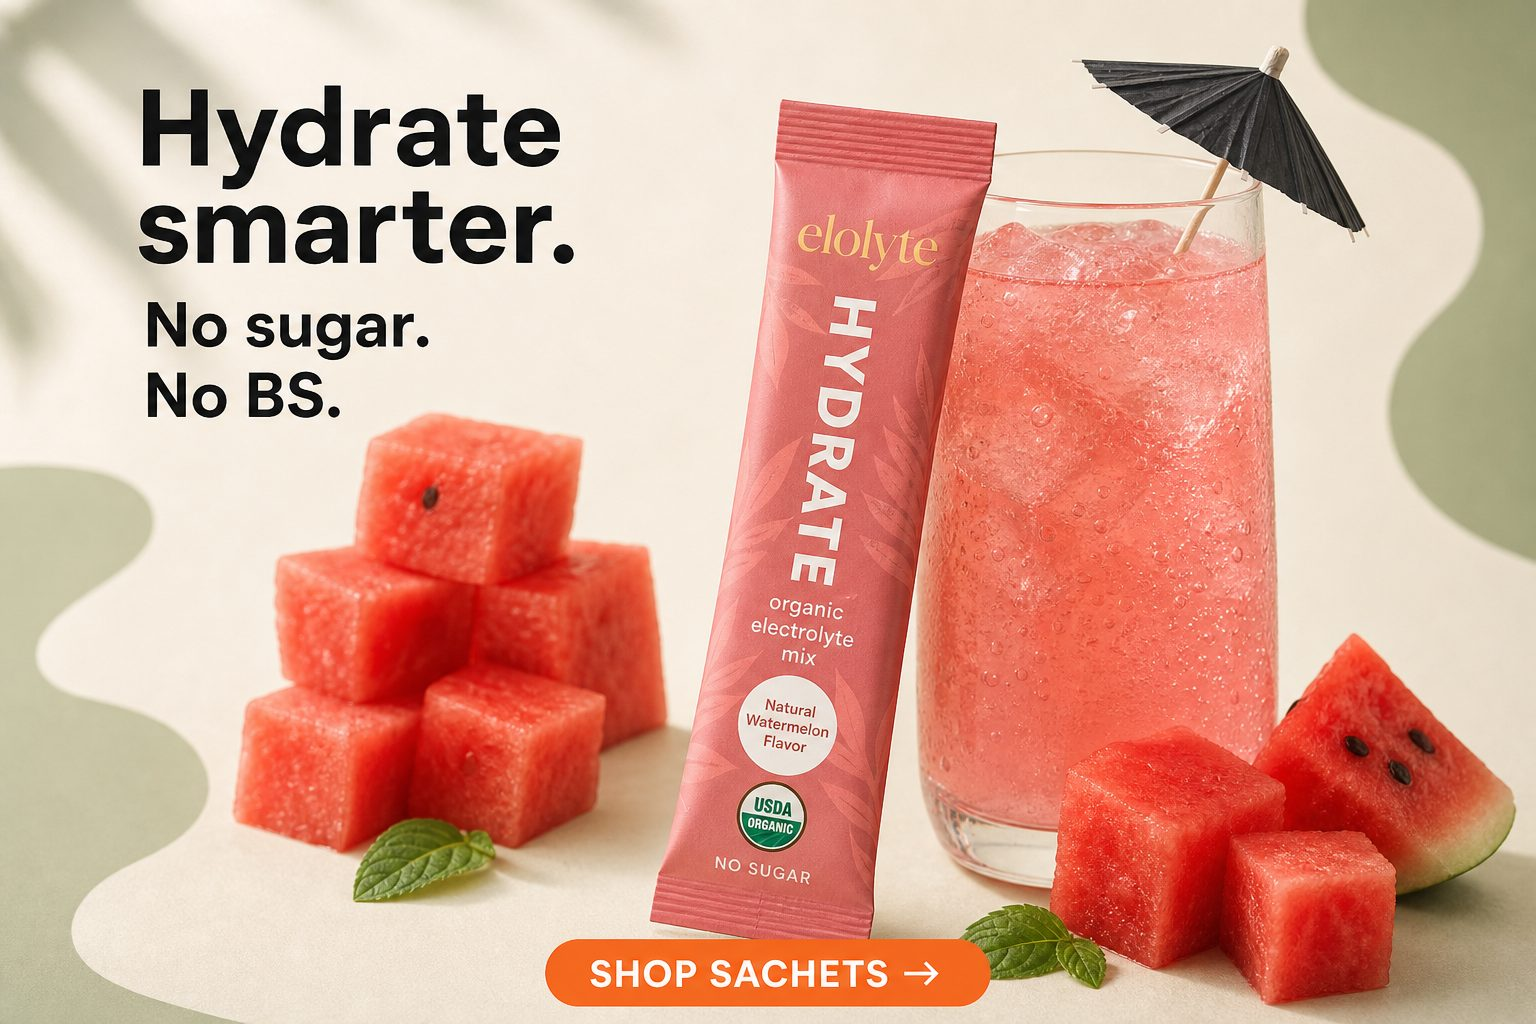
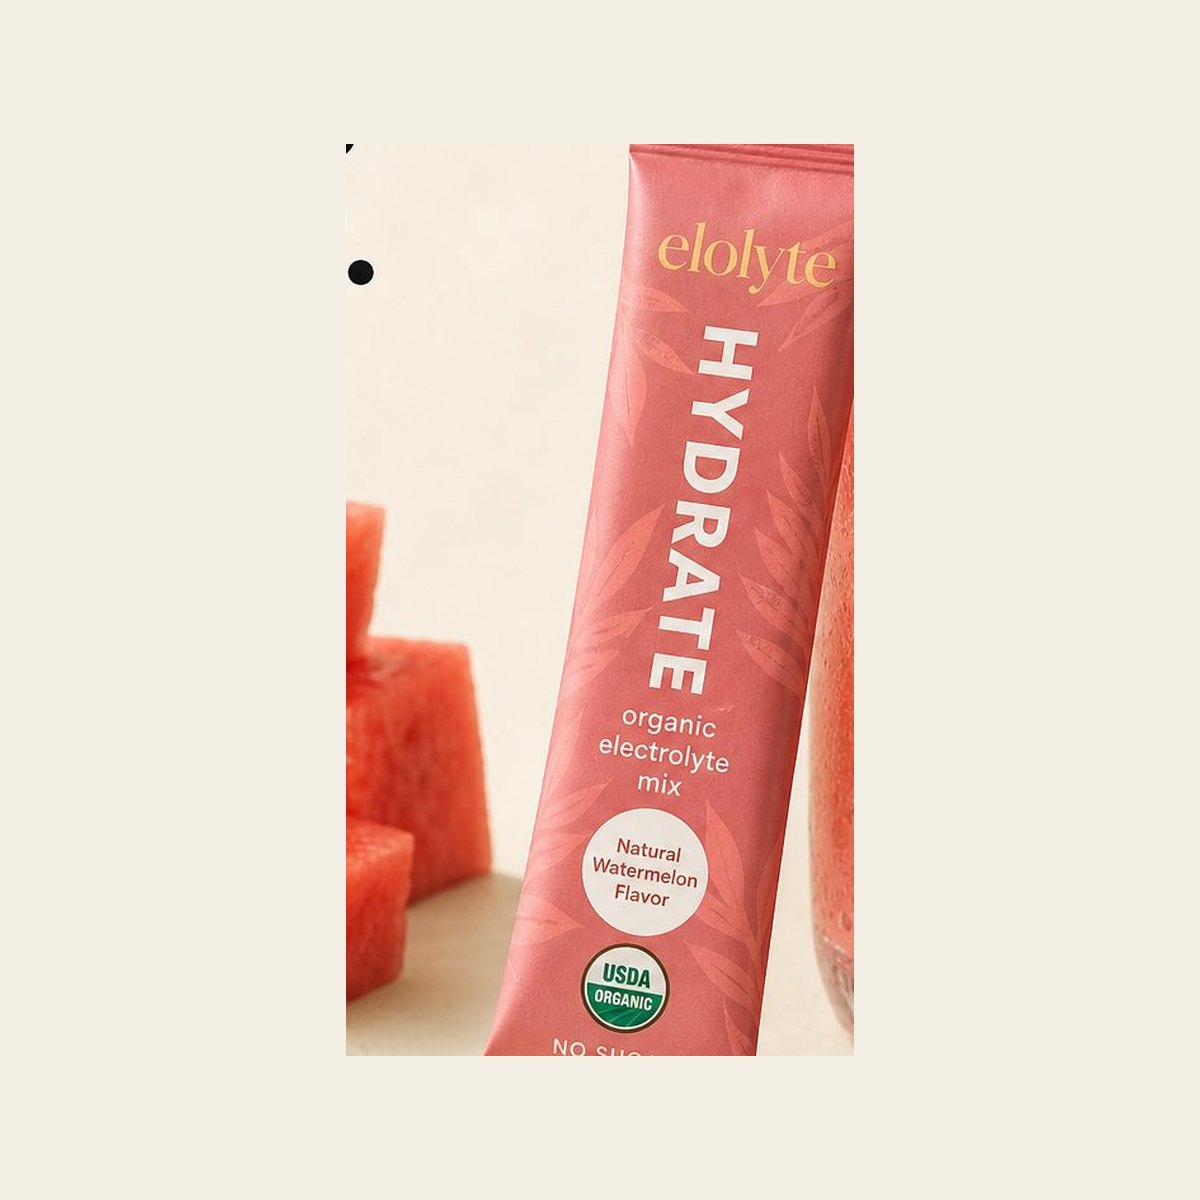
Restyle flavors as a square product grid, add @drink_elolyte.
Crop lifestyle tiles to the sachet, letterbox on cream, and use 1:1 contain frames so nothing stretches. Each card shows $39/mo · $45 with Subscribe and Try once. Footer now includes X and Instagram.

diff --git a/index.html b/index.html
@@ -99,68 +99,80 @@
       </div>
       <div class="flavor-grid">
         <article class="flavor-card" id="flavor-lemon">
-          <img class="flavor-photo" src="assets/flavors/lemon.jpg" width="1536" height="1024" alt="Natural Lemon Elolyte sachet beside a glass of iced lemon water">
+          <div class="flavor-media">
+            <img class="flavor-photo" src="assets/flavors/lemon.jpg" width="1200" height="1200" alt="Natural Lemon Elolyte sachet">
+          </div>
           <div class="flavor-body">
             <h3>Natural Lemon</h3>
-            <p>Bright citrus in cold water.</p>
+            <p class="flavor-price">$39/mo · $45</p>
             <div class="flavor-actions">
-              <a class="btn" data-buy="subscription" data-flavor="Natural Lemon" href="https://buy.stripe.com/00w9ATeHGcLve000Km6kg00">Subscribe Lemon — $39</a>
-              <a class="btn btn-ghost" data-buy="one-time" data-flavor="Natural Lemon" href="https://buy.stripe.com/00w5kD0QQ8vf5tu78K6kg01">Try Lemon — $45</a>
+              <a class="btn" data-buy="subscription" data-flavor="Natural Lemon" href="https://buy.stripe.com/00w9ATeHGcLve000Km6kg00">Subscribe — $39</a>
+              <a class="btn btn-ghost" data-buy="one-time" data-flavor="Natural Lemon" href="https://buy.stripe.com/00w5kD0QQ8vf5tu78K6kg01">Try once — $45</a>
             </div>
           </div>
         </article>
         <article class="flavor-card" id="flavor-original">
-          <img class="flavor-photo" src="assets/flavors/original.jpg" width="1536" height="1024" alt="Original Elolyte sachet with coconut and sea salt">
+          <div class="flavor-media">
+            <img class="flavor-photo" src="assets/flavors/original.jpg" width="1200" height="1200" alt="Original Elolyte sachet">
+          </div>
           <div class="flavor-body">
             <h3>Original</h3>
-            <p>Coconut water and sea salt.</p>
+            <p class="flavor-price">$39/mo · $45</p>
             <div class="flavor-actions">
-              <a class="btn" data-buy="subscription" data-flavor="Original" href="https://buy.stripe.com/00w9ATeHGcLve000Km6kg00">Subscribe Original — $39</a>
-              <a class="btn btn-ghost" data-buy="one-time" data-flavor="Original" href="https://buy.stripe.com/00w5kD0QQ8vf5tu78K6kg01">Try Original — $45</a>
+              <a class="btn" data-buy="subscription" data-flavor="Original" href="https://buy.stripe.com/00w9ATeHGcLve000Km6kg00">Subscribe — $39</a>
+              <a class="btn btn-ghost" data-buy="one-time" data-flavor="Original" href="https://buy.stripe.com/00w5kD0QQ8vf5tu78K6kg01">Try once — $45</a>
             </div>
           </div>
         </article>
         <article class="flavor-card" id="flavor-lime">
-          <img class="flavor-photo" src="assets/flavors/lime.jpg" width="1536" height="1024" alt="Natural Lime Elolyte sachet with iced lime water and mint">
+          <div class="flavor-media">
+            <img class="flavor-photo" src="assets/flavors/lime.jpg" width="1200" height="1200" alt="Natural Lime Elolyte sachet">
+          </div>
           <div class="flavor-body">
             <h3>Natural Lime</h3>
-            <p>Fresh lime and mint.</p>
+            <p class="flavor-price">$39/mo · $45</p>
             <div class="flavor-actions">
-              <a class="btn" data-buy="subscription" data-flavor="Natural Lime" href="https://buy.stripe.com/00w9ATeHGcLve000Km6kg00">Subscribe Lime — $39</a>
-              <a class="btn btn-ghost" data-buy="one-time" data-flavor="Natural Lime" href="https://buy.stripe.com/00w5kD0QQ8vf5tu78K6kg01">Try Lime — $45</a>
+              <a class="btn" data-buy="subscription" data-flavor="Natural Lime" href="https://buy.stripe.com/00w9ATeHGcLve000Km6kg00">Subscribe — $39</a>
+              <a class="btn btn-ghost" data-buy="one-time" data-flavor="Natural Lime" href="https://buy.stripe.com/00w5kD0QQ8vf5tu78K6kg01">Try once — $45</a>
             </div>
           </div>
         </article>
         <article class="flavor-card" id="flavor-watermelon">
-          <img class="flavor-photo" src="assets/flavors/watermelon.jpg" width="1536" height="1024" alt="Natural Watermelon Elolyte sachet with a pink drink and watermelon cubes">
+          <div class="flavor-media">
+            <img class="flavor-photo" src="assets/flavors/watermelon.jpg" width="1200" height="1200" alt="Natural Watermelon Elolyte sachet">
+          </div>
           <div class="flavor-body">
             <h3>Natural Watermelon</h3>
-            <p>Ripe watermelon, no sugar.</p>
+            <p class="flavor-price">$39/mo · $45</p>
             <div class="flavor-actions">
-              <a class="btn" data-buy="subscription" data-flavor="Natural Watermelon" href="https://buy.stripe.com/00w9ATeHGcLve000Km6kg00">Subscribe Watermelon — $39</a>
-              <a class="btn btn-ghost" data-buy="one-time" data-flavor="Natural Watermelon" href="https://buy.stripe.com/00w5kD0QQ8vf5tu78K6kg01">Try Watermelon — $45</a>
+              <a class="btn" data-buy="subscription" data-flavor="Natural Watermelon" href="https://buy.stripe.com/00w9ATeHGcLve000Km6kg00">Subscribe — $39</a>
+              <a class="btn btn-ghost" data-buy="one-time" data-flavor="Natural Watermelon" href="https://buy.stripe.com/00w5kD0QQ8vf5tu78K6kg01">Try once — $45</a>
             </div>
           </div>
         </article>
         <article class="flavor-card" id="flavor-cola">
-          <img class="flavor-photo" src="assets/flavors/cola.jpg" width="1536" height="1024" alt="Natural Cola Elolyte sachet with iced cola, coffee beans, and cinnamon">
+          <div class="flavor-media">
+            <img class="flavor-photo" src="assets/flavors/cola.jpg" width="1200" height="1200" alt="Natural Cola Elolyte sachet">
+          </div>
           <div class="flavor-body">
             <h3>Natural Cola</h3>
-            <p>Cola notes, no sugar.</p>
+            <p class="flavor-price">$39/mo · $45</p>
             <div class="flavor-actions">
-              <a class="btn" data-buy="subscription" data-flavor="Natural Cola" href="https://buy.stripe.com/00w9ATeHGcLve000Km6kg00">Subscribe Cola — $39</a>
-              <a class="btn btn-ghost" data-buy="one-time" data-flavor="Natural Cola" href="https://buy.stripe.com/00w5kD0QQ8vf5tu78K6kg01">Try Cola — $45</a>
+              <a class="btn" data-buy="subscription" data-flavor="Natural Cola" href="https://buy.stripe.com/00w9ATeHGcLve000Km6kg00">Subscribe — $39</a>
+              <a class="btn btn-ghost" data-buy="one-time" data-flavor="Natural Cola" href="https://buy.stripe.com/00w5kD0QQ8vf5tu78K6kg01">Try once — $45</a>
             </div>
           </div>
         </article>
         <article class="flavor-card" id="flavor-tropical">
-          <img class="flavor-photo" src="assets/flavors/tropical.jpg" width="1536" height="1024" alt="Tropical Elolyte sachet with pineapple, mango, and passion fruit">
+          <div class="flavor-media">
+            <img class="flavor-photo" src="assets/flavors/tropical.jpg" width="1200" height="1200" alt="Tropical Elolyte sachet">
+          </div>
           <div class="flavor-body">
             <h3>Tropical</h3>
-            <p>Pineapple, mango, passion fruit.</p>
+            <p class="flavor-price">$39/mo · $45</p>
             <div class="flavor-actions">
-              <a class="btn" data-buy="subscription" data-flavor="Tropical" href="https://buy.stripe.com/00w9ATeHGcLve000Km6kg00">Subscribe Tropical — $39</a>
-              <a class="btn btn-ghost" data-buy="one-time" data-flavor="Tropical" href="https://buy.stripe.com/00w5kD0QQ8vf5tu78K6kg01">Try Tropical — $45</a>
+              <a class="btn" data-buy="subscription" data-flavor="Tropical" href="https://buy.stripe.com/00w9ATeHGcLve000Km6kg00">Subscribe — $39</a>
+              <a class="btn btn-ghost" data-buy="one-time" data-flavor="Tropical" href="https://buy.stripe.com/00w5kD0QQ8vf5tu78K6kg01">Try once — $45</a>
             </div>
           </div>
         </article>
@@ -201,7 +213,13 @@
 
   <footer class="wrap">
     <a class="logo" href="/">Elolyte</a>
-    <a href="mailto:hello@elolyte.com">hello@elolyte.com</a>
+    <div class="footer-contact">
+      <a href="mailto:hello@elolyte.com">hello@elolyte.com</a>
+      <span class="footer-social">
+        <a href="https://x.com/drink_elolyte" rel="noopener noreferrer">X @drink_elolyte</a>
+        <a href="https://www.instagram.com/drink_elolyte/" rel="noopener noreferrer">Instagram @drink_elolyte</a>
+      </span>
+    </div>
     <p class="fineprint">Contact: <a href="mailto:hello@elolyte.com">hello@elolyte.com</a>. Food supplement. Not medical advice. If you are pregnant, breastfeeding, on medication, or have a medical condition, ask a doctor before using a food supplement. Keep out of reach of children. © Elolyte</p>
   </footer>
   <script src="buy.js"></script>

diff --git a/shop.html b/shop.html
@@ -73,28 +73,34 @@
       <p class="dose-line">Pick a mix. Same $39 subscribe or $45 try-once price.</p>
       <div class="flavor-list">
         <a class="flavor-chip" href="/#flavor-lemon">
-          <img src="assets/flavors/lemon.jpg" width="1536" height="1024" alt="">
+          <img src="assets/flavors/lemon.jpg" width="1200" height="1200" alt="">
           <span>Natural Lemon</span>
+          <span class="flavor-price">$39/mo · $45</span>
         </a>
         <a class="flavor-chip" href="/#flavor-original">
-          <img src="assets/flavors/original.jpg" width="1536" height="1024" alt="">
+          <img src="assets/flavors/original.jpg" width="1200" height="1200" alt="">
           <span>Original</span>
+          <span class="flavor-price">$39/mo · $45</span>
         </a>
         <a class="flavor-chip" href="/#flavor-lime">
-          <img src="assets/flavors/lime.jpg" width="1536" height="1024" alt="">
+          <img src="assets/flavors/lime.jpg" width="1200" height="1200" alt="">
           <span>Natural Lime</span>
+          <span class="flavor-price">$39/mo · $45</span>
         </a>
         <a class="flavor-chip" href="/#flavor-watermelon">
-          <img src="assets/flavors/watermelon.jpg" width="1536" height="1024" alt="">
+          <img src="assets/flavors/watermelon.jpg" width="1200" height="1200" alt="">
           <span>Natural Watermelon</span>
+          <span class="flavor-price">$39/mo · $45</span>
         </a>
         <a class="flavor-chip" href="/#flavor-cola">
-          <img src="assets/flavors/cola.jpg" width="1536" height="1024" alt="">
+          <img src="assets/flavors/cola.jpg" width="1200" height="1200" alt="">
           <span>Natural Cola</span>
+          <span class="flavor-price">$39/mo · $45</span>
         </a>
         <a class="flavor-chip" href="/#flavor-tropical">
-          <img src="assets/flavors/tropical.jpg" width="1536" height="1024" alt="">
+          <img src="assets/flavors/tropical.jpg" width="1200" height="1200" alt="">
           <span>Tropical</span>
+          <span class="flavor-price">$39/mo · $45</span>
         </a>
       </div>
     </section>
@@ -102,7 +108,13 @@
 
   <footer class="wrap">
     <a class="logo" href="/">Elolyte</a>
-    <a href="mailto:hello@elolyte.com">hello@elolyte.com</a>
+    <div class="footer-contact">
+      <a href="mailto:hello@elolyte.com">hello@elolyte.com</a>
+      <span class="footer-social">
+        <a href="https://x.com/drink_elolyte" rel="noopener noreferrer">X @drink_elolyte</a>
+        <a href="https://www.instagram.com/drink_elolyte/" rel="noopener noreferrer">Instagram @drink_elolyte</a>
+      </span>
+    </div>
     <p class="fineprint">Contact: <a href="mailto:hello@elolyte.com">hello@elolyte.com</a>. Food supplement. Not medical advice. If you are pregnant, breastfeeding, on medication, or have a medical condition, ask a doctor before using a food supplement. Keep out of reach of children. © Elolyte</p>
   </footer>
   <script src="buy.js"></script>

diff --git a/styles.css b/styles.css
@@ -229,57 +229,68 @@ a { color: inherit; }
 .flavor-grid {
   display: grid;
   grid-template-columns: repeat(3, minmax(0, 1fr));
-  gap: 1.15rem;
+  gap: 1.6rem 1.2rem;
+  align-items: stretch;
 }
 
 .flavor-card {
   background: var(--card);
   border: 1px solid var(--line);
-  border-radius: 1.4rem;
-  overflow: hidden;
+  border-radius: 1.15rem;
   display: flex;
   flex-direction: column;
-  box-shadow: var(--shadow);
+  min-height: 100%;
+}
+
+.flavor-media {
+  aspect-ratio: 1 / 1;
+  background: var(--cream-hot);
+  display: flex;
+  align-items: center;
+  justify-content: center;
+  padding: 1.1rem;
+  border-bottom: 1px solid color-mix(in srgb, var(--line) 70%, transparent);
 }
 
 .flavor-photo {
   width: 100%;
-  aspect-ratio: 4 / 3;
-  object-fit: cover;
-  background: var(--sage-wash);
+  height: 100%;
+  object-fit: contain;
+  object-position: center;
+  background: transparent;
 }
 
 .flavor-body {
-  padding: 1.15rem 1.2rem 1.25rem;
+  padding: 1.15rem 1.2rem 1.3rem;
   display: flex;
   flex-direction: column;
   flex: 1;
 }
 
 .flavor-body h3 {
-  font-size: 1.2rem;
+  font-size: 1.15rem;
   font-weight: 800;
   letter-spacing: -0.03em;
   line-height: 1.15;
-  margin-bottom: 0.3rem;
+  margin-bottom: 0.35rem;
 }
 
-.flavor-body p {
-  color: var(--muted);
+.flavor-price {
+  color: var(--olive);
   font-size: 0.95rem;
-  font-weight: 500;
-  margin-bottom: 1rem;
+  font-weight: 600;
+  margin-bottom: 1.05rem;
 }
 
 .flavor-actions {
   display: grid;
-  gap: 0.55rem;
+  gap: 0.5rem;
   margin-top: auto;
 }
 
 .flavor-actions .btn {
   width: 100%;
-  padding: 0.85rem 1rem;
+  padding: 0.82rem 1rem;
 }
 
 .contact-line {
@@ -317,7 +328,7 @@ a { color: inherit; }
 .flavor-chip {
   display: flex;
   flex-direction: column;
-  gap: 0.5rem;
+  gap: 0.35rem;
   text-decoration: none;
   color: var(--olive);
   font-size: 0.82rem;
@@ -325,13 +336,22 @@ a { color: inherit; }
   letter-spacing: -0.02em;
 }
 
+.flavor-chip .flavor-price {
+  font-size: 0.75rem;
+  font-weight: 600;
+  color: var(--muted);
+  margin-bottom: 0;
+}
+
 .flavor-chip img {
   width: 100%;
-  aspect-ratio: 4 / 3;
-  object-fit: cover;
+  aspect-ratio: 1 / 1;
+  object-fit: contain;
+  object-position: center;
+  padding: 0.45rem;
   border-radius: 0.85rem;
   border: 1px solid var(--line);
-  background: var(--sage-wash);
+  background: var(--cream-hot);
 }
 
 .flavor-chip:hover { color: var(--ink); }
@@ -433,6 +453,21 @@ footer {
   flex-wrap: wrap;
   align-items: baseline;
   border-top: 1px solid color-mix(in srgb, var(--line) 80%, transparent);
+}
+
+.footer-contact {
+  display: flex;
+  flex-wrap: wrap;
+  align-items: baseline;
+  gap: 0.35rem 1.05rem;
+  font-size: 0.92rem;
+  font-weight: 600;
+}
+
+.footer-social {
+  display: flex;
+  flex-wrap: wrap;
+  gap: 0.7rem 1rem;
 }
 
 footer a { color: var(--olive); text-underline-offset: 3px; }

diff --git a/README.md b/README.md
@@ -25,6 +25,7 @@ Two-page static site: a hero landing with six flavor cards plus Subscribe / Try 
 | Sugar | No sugar |
 | Flavors | Natural Lemon, Original, Natural Lime, Natural Watermelon, Natural Cola, Tropical |
 | Contact | [hello@elolyte.com](mailto:hello@elolyte.com) |
+| Social | [X @drink_elolyte](https://x.com/drink_elolyte) · [Instagram @drink_elolyte](https://www.instagram.com/drink_elolyte/) |
 
 ## Stripe Payment Links
 
